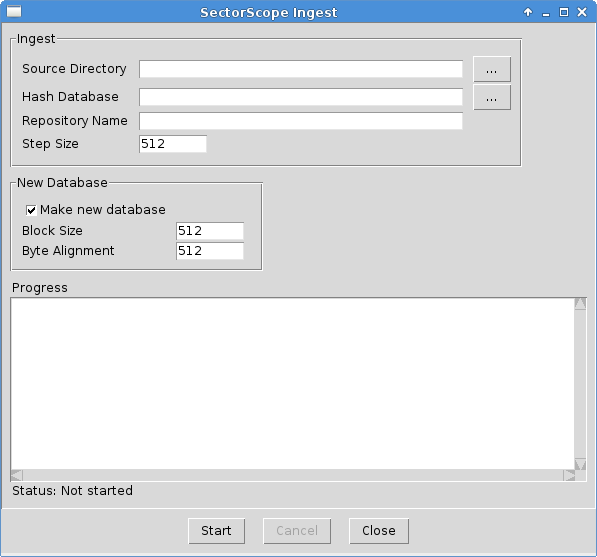
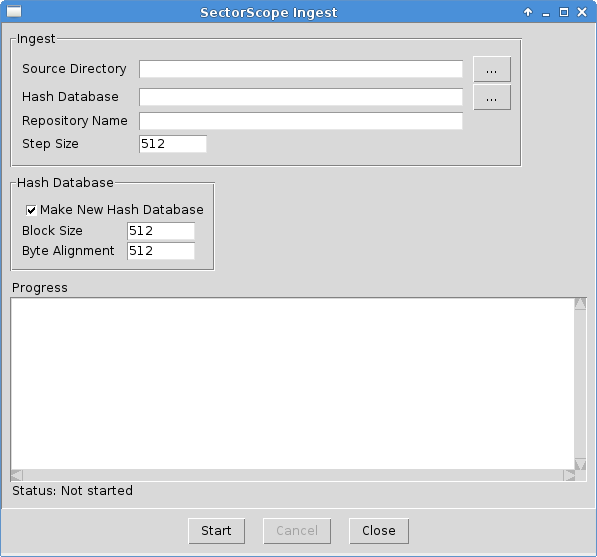
update Autopsy module

Changed region(s): [[0.1206, 0.3357, 0.4523, 0.4883], [0.0302, 0.3052, 0.2111, 0.3357], [0.3618, 0.3052, 0.4221, 0.3357]]

diff --git a/doc/sectorscope_um/sectorscope_um.tex b/doc/sectorscope_um/sectorscope_um.tex
@@ -23,7 +23,6 @@
 \newcommand \sscope {\textit{SectorScope}\xspace}
 \newcommand \hdb {\textit{hashdb}\xspace}
 \newcommand \aut {\textit{Autopsy}\xspace}
-\newcommand \bulk {\textit{bulk\_extractor}\xspace}
 
 \hypersetup{%
     pdfborder = {0 0 0}
@@ -110,15 +109,13 @@ The \sscope Windows installer installs the \verb+.nbm+ \sscope \aut plug-in modu
 
 \subsubsection{Configuring the \sscope \aut Plug-in Module}
 \label{configuringNBM}
-The path to the hashdb database must be configured:
+The path to the \hdb database must be configured:
 \begin{enumerate}
 \item Start a new case, \verb+File | New Case...+, fill in the Case Information fields, and click Next.
 \item Fill in Case Information and click Finish.
 \item For \verb+Add Data Source+ (1 of 3), put in a media image for \aut to process and click \verb+Next+.
-\item For \verb+Add Data Source+ (2 of 3), select checkboxes as desired, then click on \verb+SectorScope+ text to configure the path to your hashdb database to scan against. Currently a file chooser is not available, so please type in the full path, for example: \verb+C:\Users\me\my_hashdb.hdb+. Click \verb+Next+.
-\item For \verb+Add Data Source+ (3 of 3) click \verb+Finish+. When the \sscope module begins processing, \aut will display "NPS-SectorScope ..." as \bulk runs, which may take up to several hours. Unfortunately, \bulk progress is not currently indicated. For diagnostics: please see text in the generated \verb+bulk_extractor\report.xml+ file and in the generated log file and try running the \bulk scanner directly from \sscope.\\
-
-Note: In the future, the \sscope \aut plug-in module may be updated to use \hdb instead of \bulk.
+\item For \verb+Add Data Source+ (2 of 3), select checkboxes as desired, then click on \verb+SectorScope+ text to configure the path to your \hdb database to scan against. Currently a file chooser is not available, so please type in the full path, for example: \verb+C:\Users\me\my_hashdb.hdb+. Click \verb+Next+.
+\item For \verb+Add Data Source+ (3 of 3) click \verb+Finish+. When the \sscope module begins processing, \aut will display "NPS-SectorScope ..." as \hdb runs, which may take up to several hours. Unfortunately, \hdb progress is not currently indicated. For diagnostics: please see text in the generated log file and in the generated \verb+stderr_hashdb.txt+ file and try running the scan directly from \sscope.\\
 \end{enumerate}
 
 \subsection{Starting \sscope}
@@ -224,7 +221,7 @@ The path to the hash database to import block hashes into.
 The repository name to associate the imported sources with. Leave blank to use the default, which is the source directory path.
 \item \textbf{Step Size}\\
 The step size to move along while calculating block hashes. The byte alignment must be compatible with the step size, specifically, byte alignment must be divisible by step size.
-\item \textbf{Make New Database}\\
+\item \textbf{Make New Hash Database}\\
 If this is selected, a new database will be created instead of using an existing databases. The new database will be created with the following:
   \begin{itemize}
   \item \textbf{Block Size}\\
@@ -414,7 +411,7 @@ to open the \sscope Ingest window.
   \item Set Hash Database to your new hash database.
   \item Set the Repository Name to the name of this case dataset, or leave blank to use the source directory as the repository name.
   \item Use the default step size to ingest along sector intervals.
-  \item Keep Make New Database checked since you will not be ingesting block hashes into an existing database.
+  \item Keep Make New Hash Database checked since you will not be ingesting block hashes into an existing database.
   \item Use the default block size to calculate sector-sized block hashes.
   \item Use the default byte alignment since the blocks are sector-aligned.
   \end{itemize}

diff --git a/python/ingest_window.py b/python/ingest_window.py
@@ -133,17 +133,19 @@ class IngestWindow():
 
     def _make_optional_frame(self, master):
         optional_frame = tkinter.LabelFrame(master,
-                                            text="New Database",
+                                            text="Hash Database",
                                             padx=8, pady=8)
 
         # make new database checkbutton
         self._is_new_int_var = tkinter.IntVar()
         self._is_new_int_var.set(True)
         self._is_new_checkbutton = tkinter.Checkbutton(optional_frame,
-                    text="Make New Database", variable = self._is_new_int_var,
+                    text="Make New Hash Database",
+                    variable = self._is_new_int_var,
                     command = self._handle_is_new_checkbutton_press,
                     bd=0, pady=4, highlightthickness=0)
-        self._is_new_checkbutton.grid(row=0, column=0)
+        self._is_new_checkbutton.grid(row=0, column=0,
+                                      columnspan=2, sticky=tkinter.W)
 
         # block size label
         tkinter.Label(optional_frame, text="Block Size") \

diff --git a/autopsy_plugin/src/edu/nps/sectorscope/BlacklistDataSourceIngestModule.java b/autopsy_plugin/src/edu/nps/sectorscope/BlacklistDataSourceIngestModule.java
@@ -189,7 +189,7 @@ public class BlacklistDataSourceIngestModule implements DataSourceIngestModule {
             if (status == 0) {
                 logger.log(Level.INFO, "hashdb scan_media completed");
             } else {
-                logger.log(Level.SEVERE, "hashdb scan_media failed");
+                logger.log(Level.SEVERE, "hashdb scan_media failed, status " + status);
                 return ProcessResult.ERROR;
             }
         } catch (IOException ex) {
@@ -255,7 +255,7 @@ public class BlacklistDataSourceIngestModule implements DataSourceIngestModule {
         }
     }
 
-    void ProcessResult showSourceSummaryString(int matchCount) {
+    void showSourceSummaryString(int matchCount) {
         String summaryString;
         if (matchCount == 1) {
             summaryString = "1 blacklist block hash offset match found";

diff --git a/python/helpers.py b/python/helpers.py
@@ -45,13 +45,10 @@ def get_scan_file_attributes(scan_file):
 
         # get hashdb_dir and media_filename from first line
         line = f.readline().strip()   # line without newline
-        print("line '%s'"%line)
         if line[:11] == '# command: ':
             parts = line.split(' ')# may need to harden for quoted parameters
-            print("parts", parts)
             hashdb_dir = parts[-2]
             media_filename = parts[-1]
-            print("line-1 '%s'"%media_filename)
         else:
             raise ValueError("Invalid format in first line of scan"
                              " file %s" % scan_file)

diff --git a/python/annotation_window.py b/python/annotation_window.py
@@ -48,7 +48,7 @@ class AnnotationWindow():
         # clear existing checkbuttons
         for checkbutton, _, _ in self._checkbuttons:
             checkbutton.destroy()
-        self._checkbuttons.clear()
+        del self._checkbuttons[:]
 
         # initial ignored_types
         ignored_types = set()

diff --git a/python/sectorscope.py b/python/sectorscope.py
@@ -1,4 +1,5 @@
-#!/usr/bin/env python3
+#!/usr/bin/python2.7
+# #!/usr/bin/env python3
 # view block hashes
 
 from argparse import ArgumentParser
